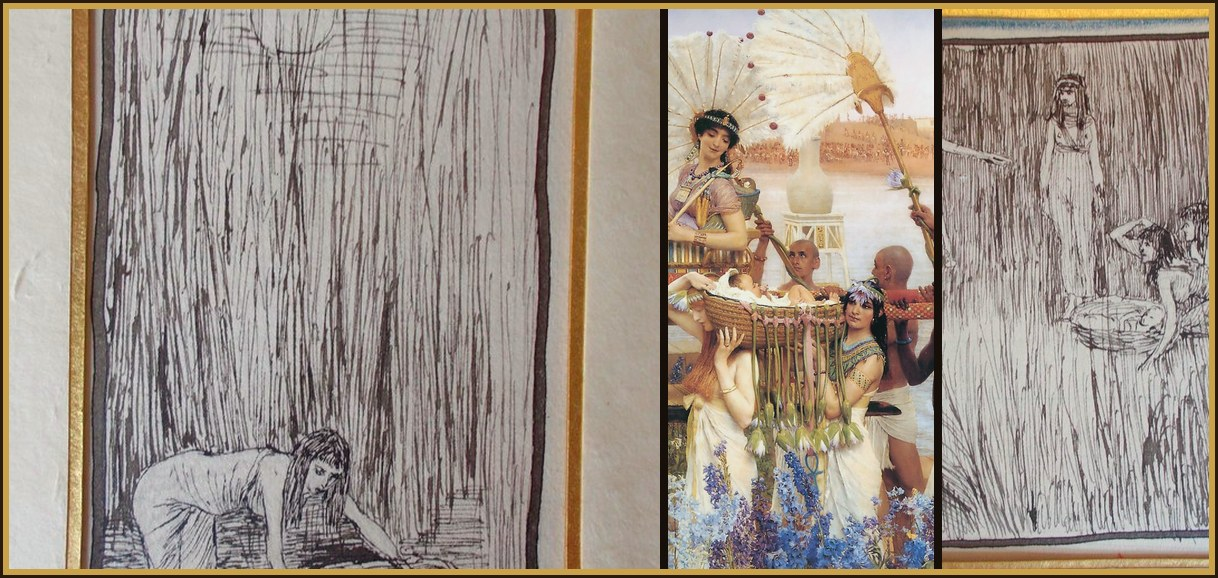
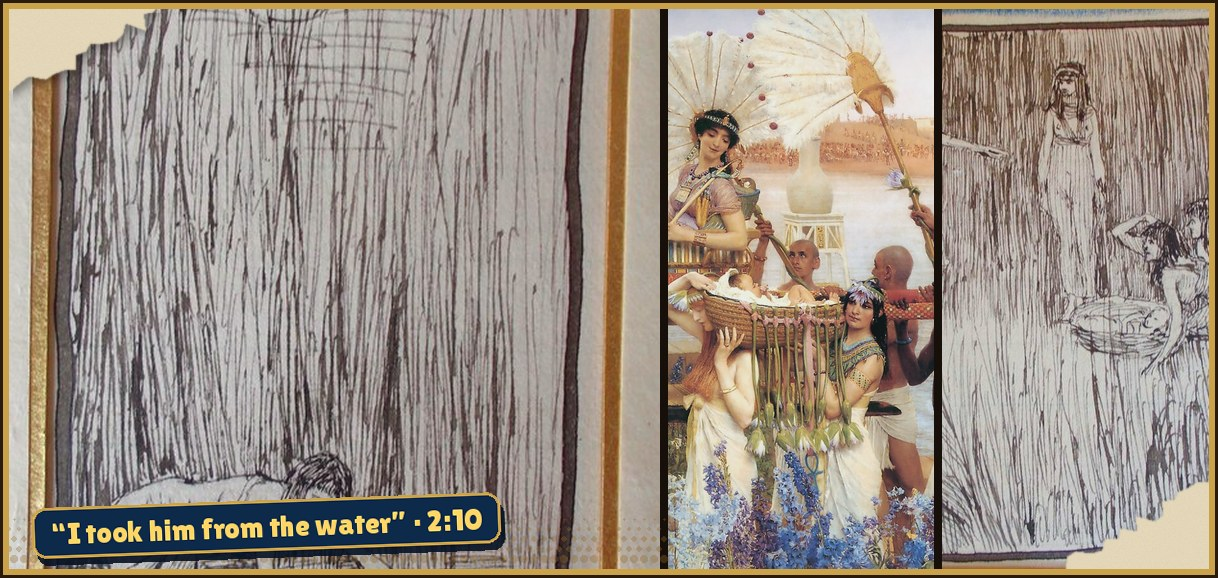
Collages: Fisk-style pop overlays (torn parchment corners, halftone, scripture callout label) in build_collages; test

diff --git a/test.js b/test.js
@@ -22,6 +22,8 @@ for(const [d,h] of Object.entries(s1)){const r=L.compute(d,site,books),n=require
   const want=[];for(let k=10;k<=n;k+=10)want.push(k);
   const okSets=want.every(k=>{const sc=scenes.find(s=>s.ref===ref&&s.after===k),a=h.indexOf(`<span id="v${k}">`),f=h.indexOf('class="lu-collage"',a),b=h.indexOf(`<span id="v${k+1}">`);return sc&&a>0&&f>a&&(b<0||f<b)&&sc.art.every(x=>cred[x])});
   t(okSets&&(h.match(/class="lu-collage"/g)||[]).length===want.length,`${d} ${r.reading.name} ${r.reading.chapter}: ${want.length} collage set(s), one after every 10 verses (${want.map(k=>"v"+k).join(", ")})`);}
+{const py=fs.readFileSync(path.join(__dirname,"tools/build_collages.py"),"utf8"),win=Object.keys(s1).map(d=>{const r=L.compute(d,site,books);return r.reading.book+":"+r.reading.chapter});
+ const ws=scenes.filter(s=>win.includes(s.ref));t(/C=pop\(C,sc\)/.test(py)&&/def torn/.test(py)&&/def halftone/.test(py)&&/def label/.test(py)&&!/outline=\(255,255,255/.test(py)&&ws.every(s=>s.pop===true&&s.callout&&/\d+:\d+$/.test(s.callout)),`Fisk pop overlays (torn corners, halftone, scripture callout label) built into every set in the window (${ws.length})`);}
 {const css=fs.readFileSync(path.join(__dirname,"css/lu.css"),"utf8");t(/\.lu-collage\{width:60%;max-width:480px;margin:18px auto;/.test(css),"collages shown smaller (60%, max 480px) and centered");}
 function esc(s){return String(s).replace(/[&<>"]/g,c=>({"&":"&amp;","<":"&lt;",">":"&gt;",'"':"&quot;"}[c]))}
 // 3. home page links

diff --git a/tools/build_collages.py b/tools/build_collages.py
@@ -17,7 +17,48 @@ def match(ims,s=.45):
 def crop(im,t):
   # Tissot gouaches are photographed on their paper mounts: trim the mat
   if 'Tissot Drawing' not in t:return im
-  w,h=im.size;return im.crop((int(w*.12),int(h*.1),int(w*.88),int(h*.9)))
+  w,h=im.size;return im.crop((int(w*.17),int(h*.12),int(w*.83),int(h*.88)))
+
+# Fisk-style pop (Nathan, Oct 24): light overlays that never cover the middle of the painting.
+# Torn parchment corners, a halftone band in the bottom margin, and one sticker-label scripture callout
+# in the bottom-left corner. All drawn here with PIL; no AI images, no outlines around cutouts.
+from PIL import ImageFont,ImageFilter
+import random
+FONT=R+'/fonts/LilitaOne-Regular.ttf'
+def torn(C,corner,rnd):
+  w,h=C.size;L=Image.new('L',C.size,0);d=ImageDraw.Draw(L);sw,sh=int(w*.13),int(h*.16)
+  pts=[];n=18
+  for i in range(n+1):
+    t=i/n;x=sw*(1-t);y=sh*t;j=rnd.uniform(-7,7);pts.append((x+j,y+j))
+  poly=[(0,0)]+pts
+  if corner=='br':poly=[(w-x,h-y) for x,y in poly]
+  d.polygon(poly,fill=255);L=L.filter(ImageFilter.GaussianBlur(.8))
+  paper=Image.new('RGB',C.size,(236,222,190));tex=Image.effect_noise(C.size,18).convert('RGB')
+  paper=Image.blend(paper,tex,.08);sh_=L.filter(ImageFilter.GaussianBlur(5)).point(lambda v:int(v*.45))
+  C.paste((10,6,2),(4,4),sh_.crop((0,0,w-4,h-4)) if corner=='tl' else sh_) ;C.paste(paper,(0,0),L);return C
+def halftone(C):
+  w,h=C.size;band=int(h*.09);O=Image.new('RGBA',C.size,(0,0,0,0));d=ImageDraw.Draw(O)
+  for y in range(h-band,h,10):
+    r=1+3.2*(y-(h-band))/band
+    for x in range((y//10%2)*5,int(w*.55),10):d.ellipse((x-r,y-r,x+r,y+r),fill=(150,105,40,85))
+  return Image.alpha_composite(C.convert('RGBA'),O).convert('RGB')
+def busy(C,box):
+  g=np.asarray(C.convert('L').crop(box).filter(ImageFilter.FIND_EDGES),dtype=float);return g.mean()
+def label(C,text):
+  w,h=C.size;f=ImageFont.truetype(FONT,30);d=ImageDraw.Draw(C);tw=d.textlength(text,font=f)
+  bw,bh=int(tw+36),50;y=h-bh-22
+  # put the label in the quieter bottom corner so it stays off the figures
+  x=min([22,w-bw-30],key=lambda x:busy(C,(x,y-6,x+bw,y+bh)))
+  S=Image.new('RGBA',(bw+8,bh+8),(0,0,0,0));sd=ImageDraw.Draw(S)
+  sd.rounded_rectangle((4,8,bw+4,bh+8),14,fill=(7,20,38,230))
+  sd.rounded_rectangle((0,0,bw,bh),14,fill=(14,42,75,255),outline=(201,162,74,255),width=3)
+  sd.text((18,9),text,font=f,fill=(255,214,102,255))
+  S=S.rotate(2,resample=Image.BICUBIC,expand=True);C=C.convert('RGBA');C.alpha_composite(S,(x,y-6));return C.convert('RGB')
+def pop(C,sc):
+  rnd=random.Random(sc['ref']+str(sc['after']))
+  C=torn(C,'tl',rnd);C=torn(C,'br',rnd);C=halftone(C)
+  if sc.get('callout'):C=label(C,sc['callout'])
+  sc['pop']=True;return C
 W,H,g=1200,560,8;os.makedirs(R+'/images/scenes',exist_ok=True)
 for sc in S['scenes']:
   name='images/scenes/%s-%d.jpg'%(sc['ref'].replace(':','-'),sc['after']);sc['image']=name
@@ -28,5 +69,7 @@ for sc in S['scenes']:
   ims=match([ImageOps.fit(im,(w,H),Image.LANCZOS,centering=(.5,.4)) for im,w in zip(ims,ws)])
   C=Image.new('RGB',(W,H),(22,15,10));x=0
   for im,w in zip(ims,ws):C.paste(im,(x,0));x+=w+g
+  C=pop(C,sc)
   C=ImageOps.expand(C,6,(201,162,74));C=ImageOps.expand(C,3,(40,26,12))
   C.save(R+'/'+name,quality=88);print(name)
+json.dump(S,open(R+'/data/scenes.json','w'),indent=1,ensure_ascii=False)
